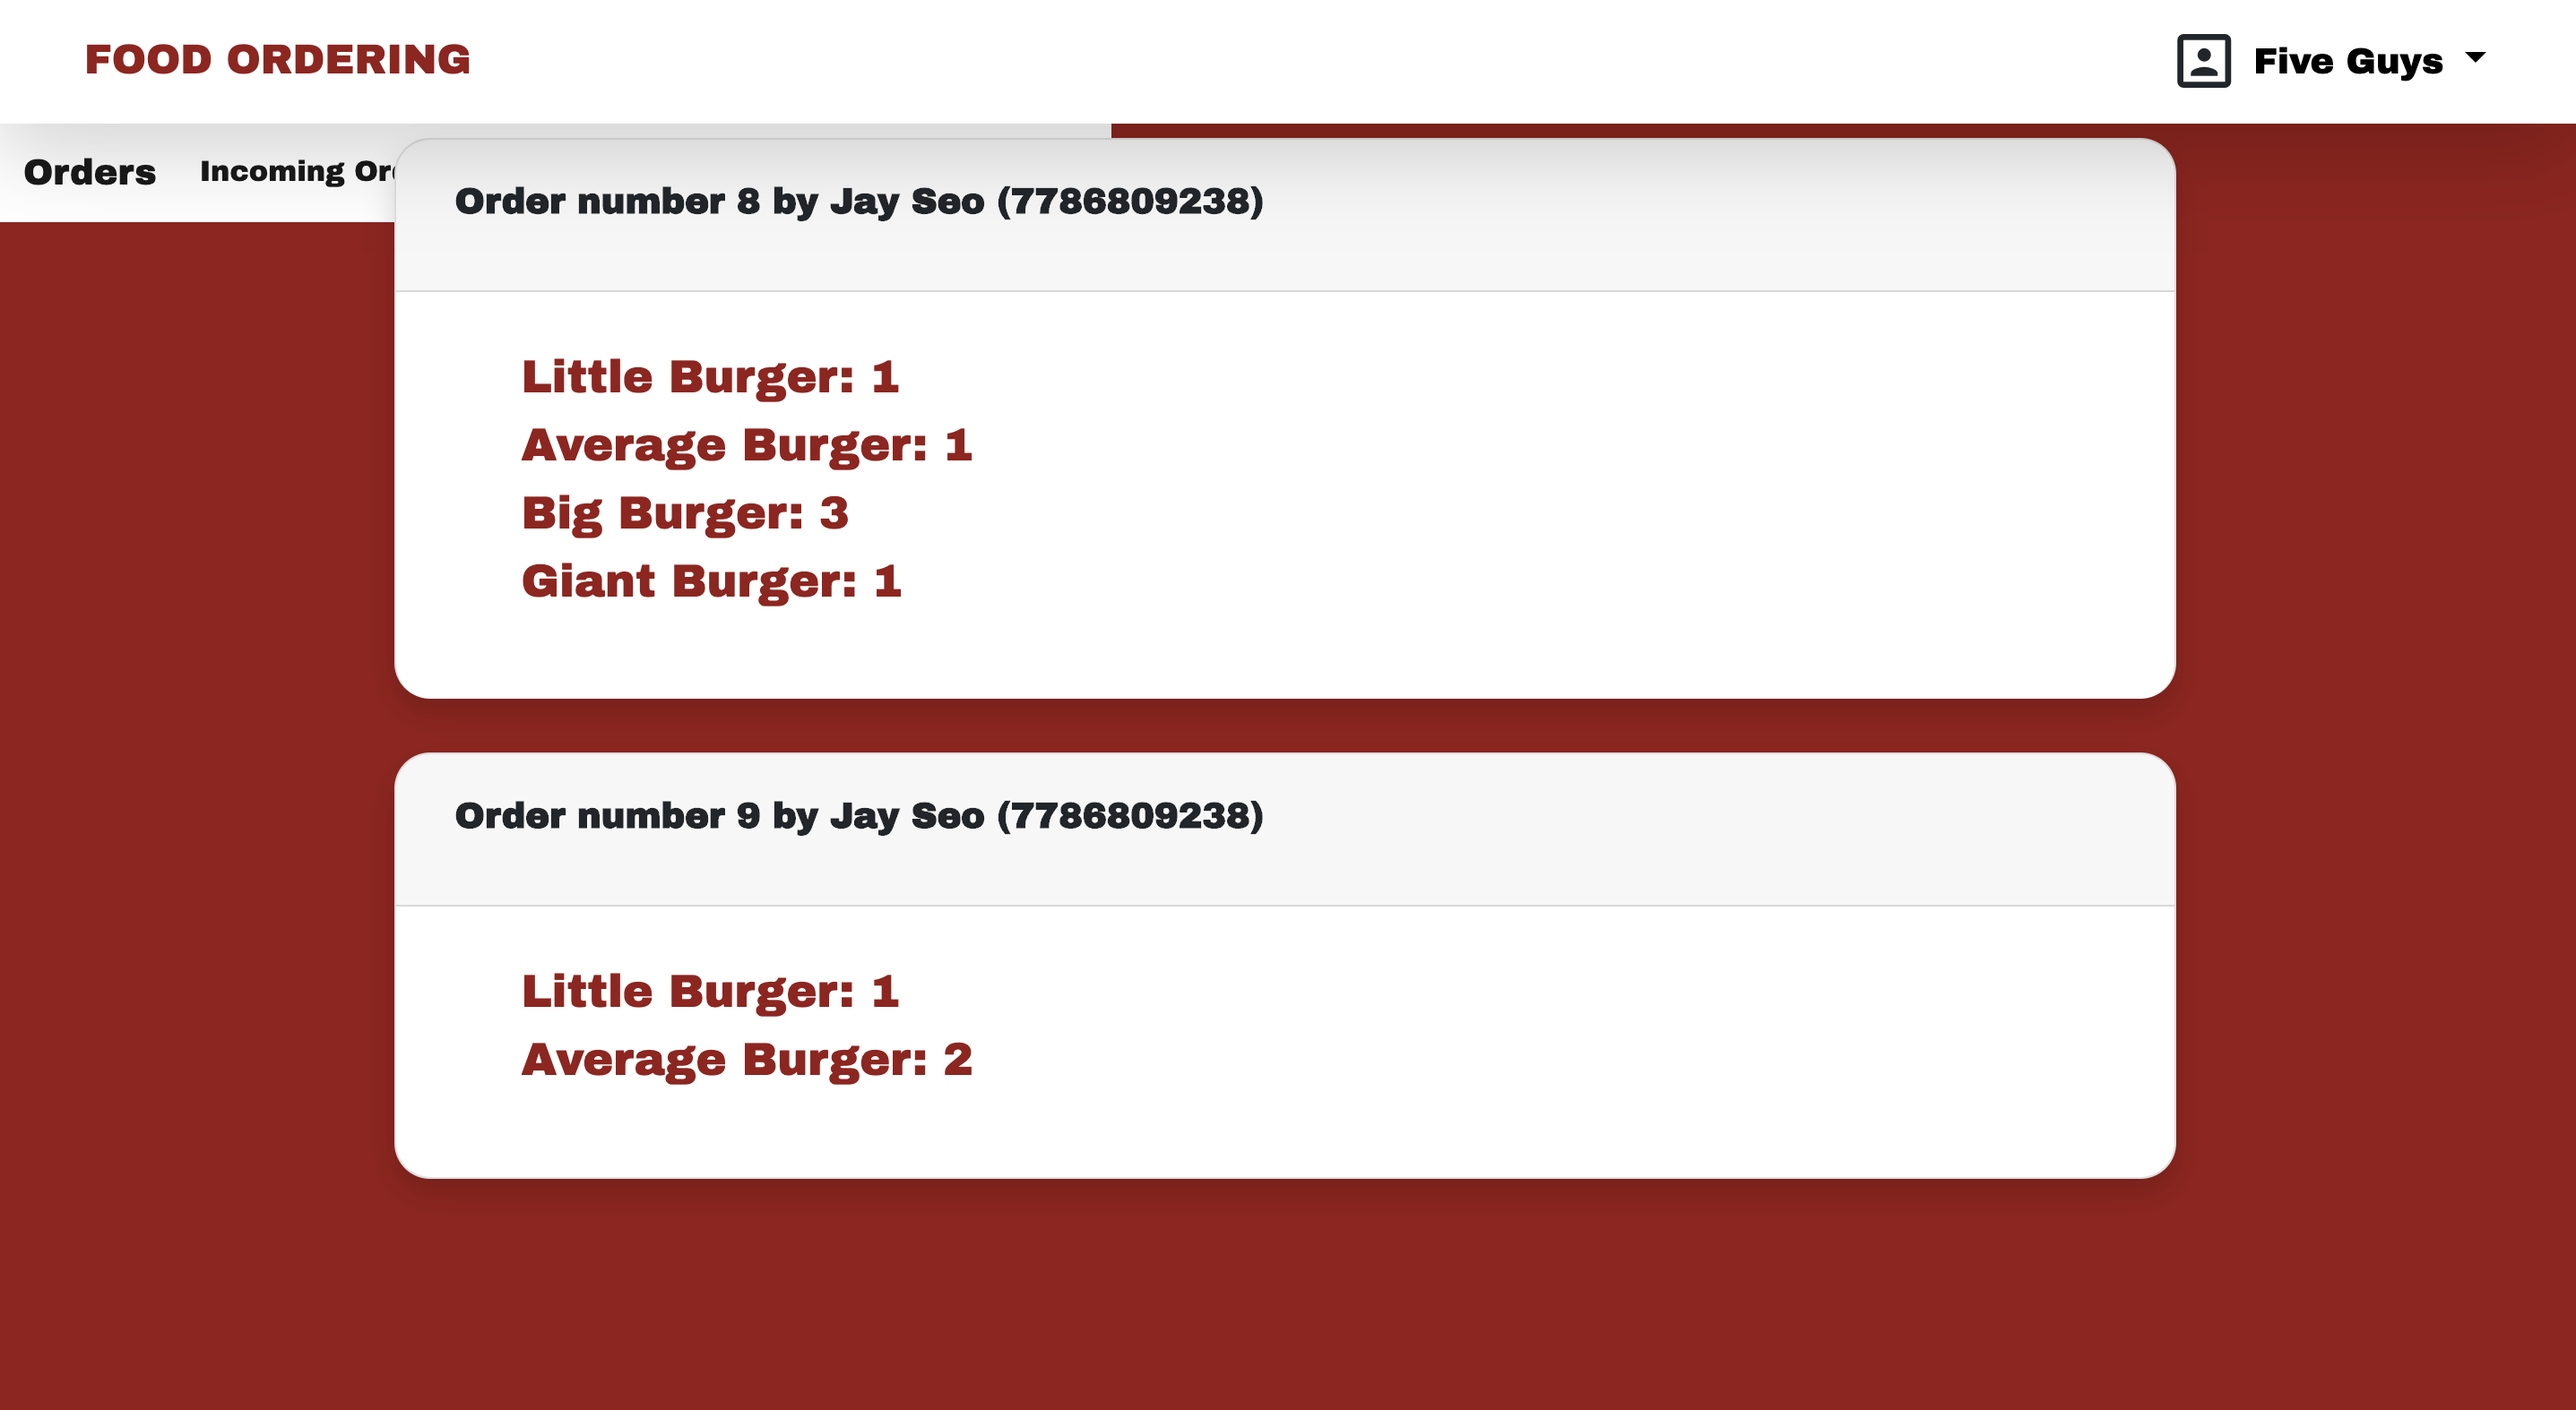
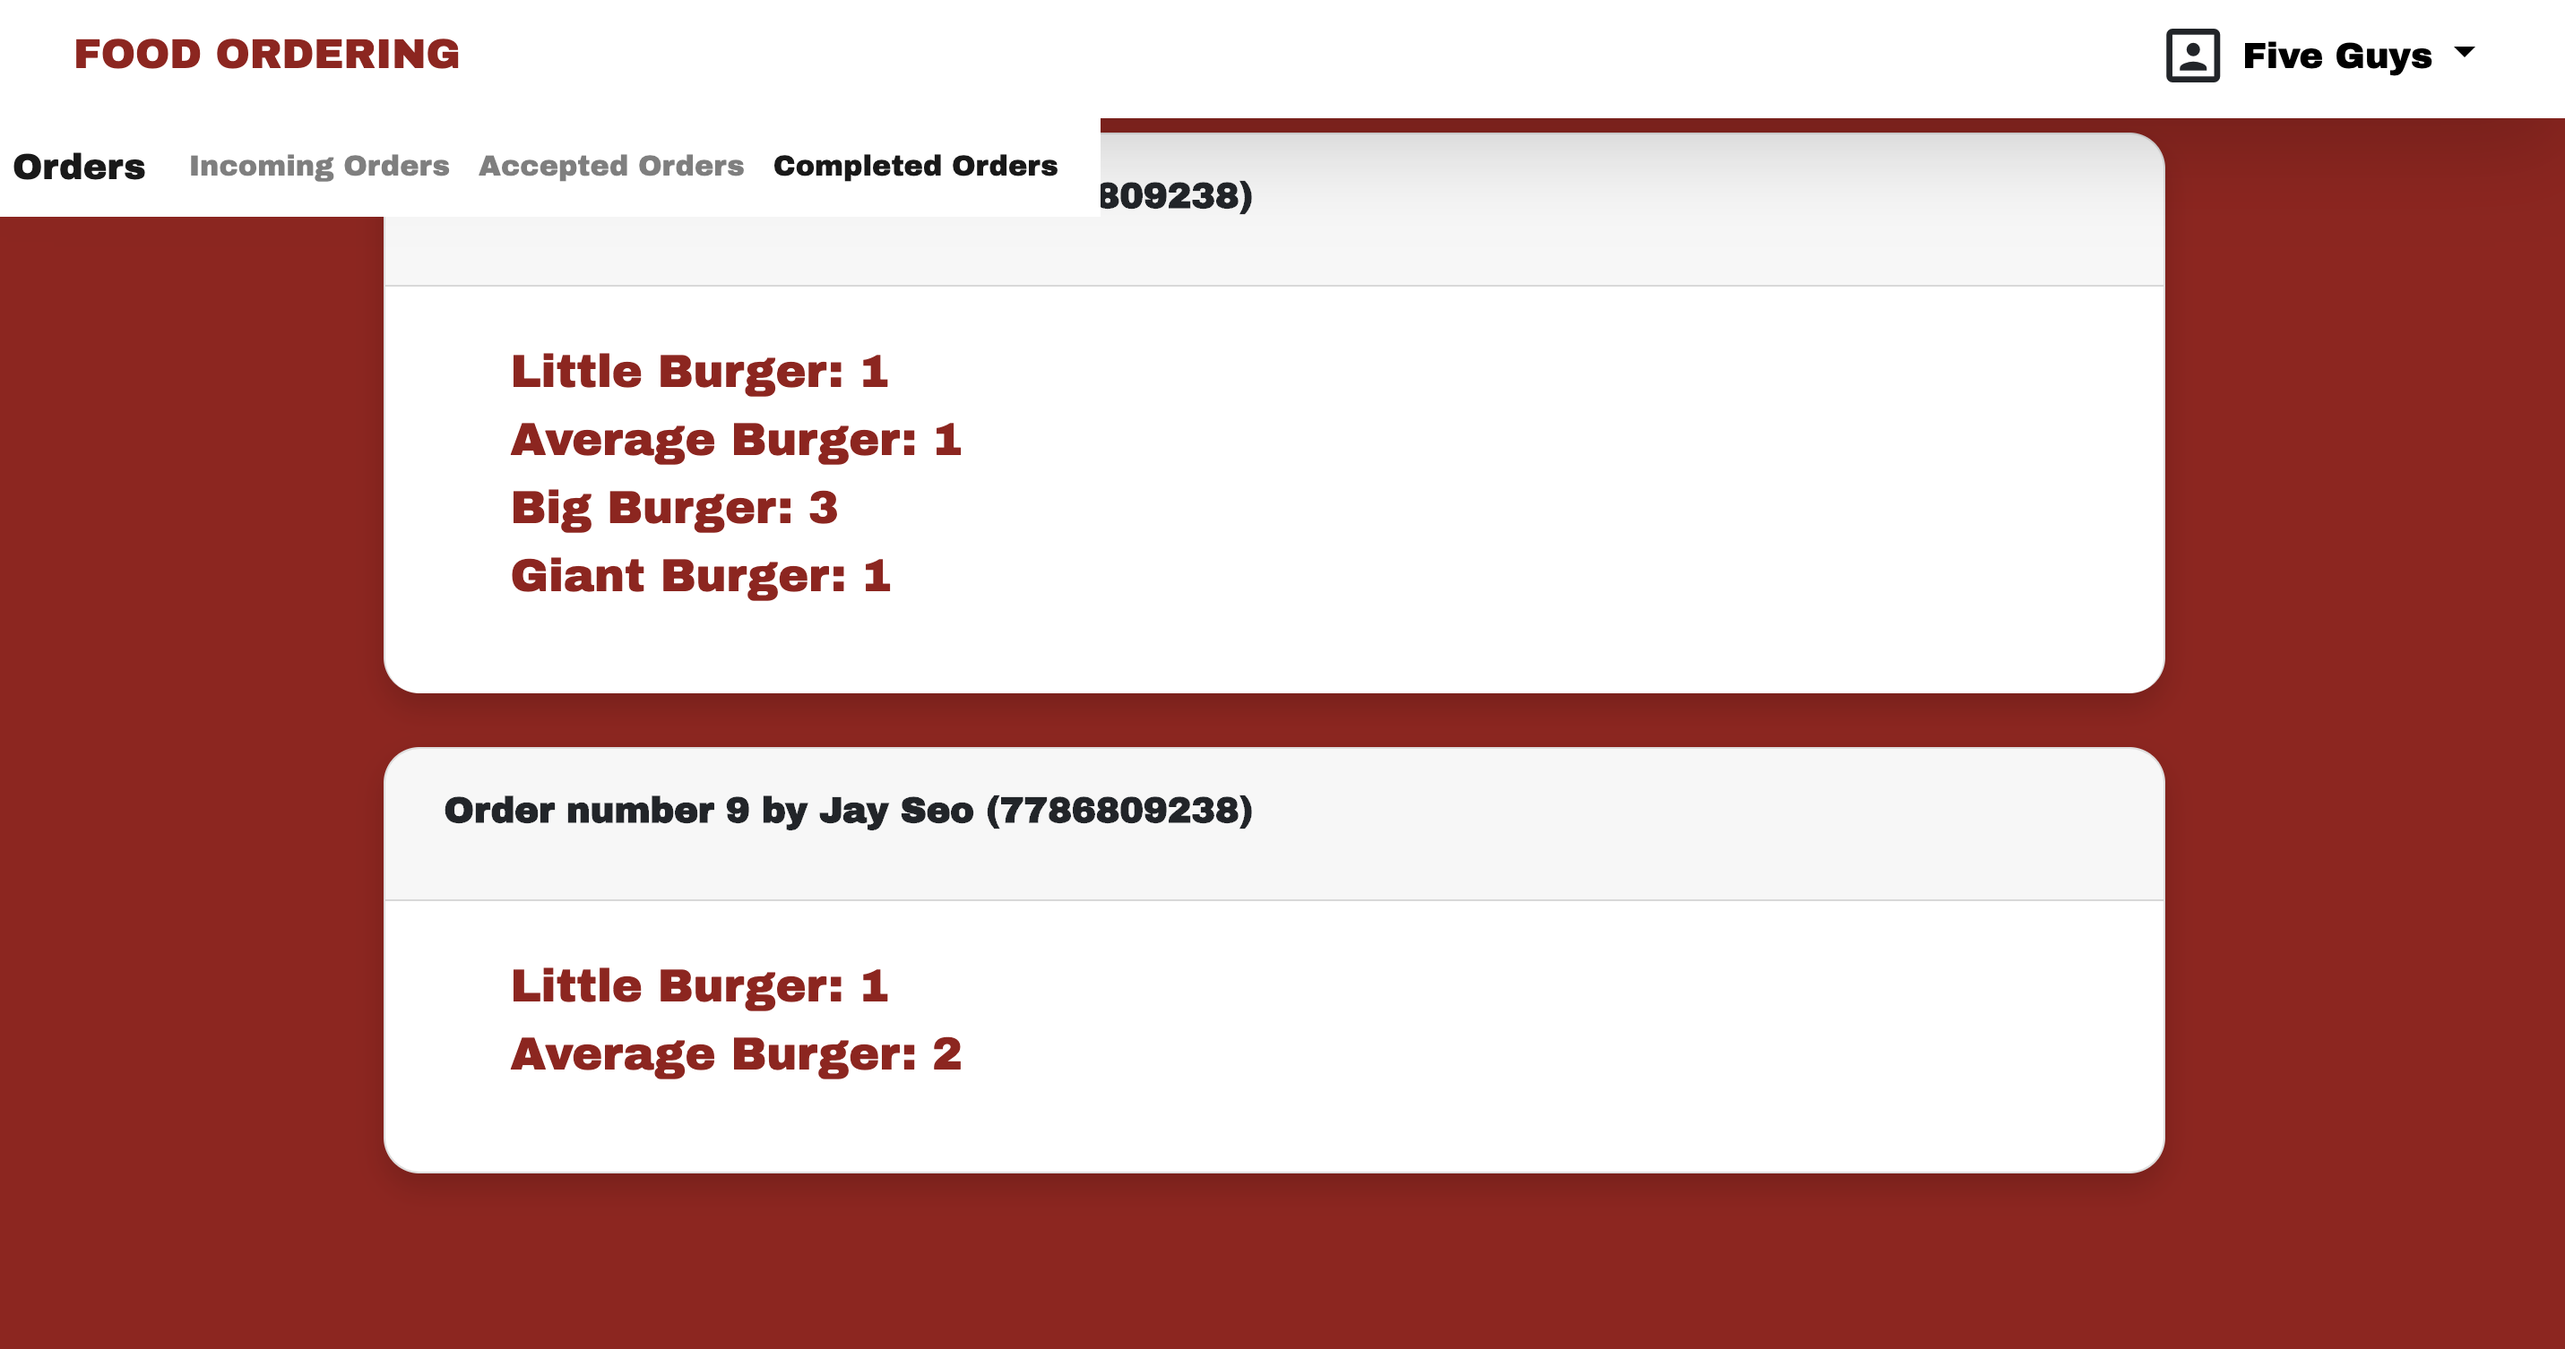
new image for completed order page

Changed region(s): [[0.0, 0.0312, 0.8396, 0.8738], [0.8396, 0.0, 0.964, 0.0624]]

diff --git a/styles/restaurant-portal.scss b/styles/restaurant-portal.scss
@@ -86,7 +86,7 @@ body {
 
   nav.orders-nav {
     position: fixed;
-    // z-index: 2000;
+    z-index: 2000;
     margin-top:1.8vh;
     background-color:white!important;
   }

diff --git a/README.md b/README.md
@@ -34,57 +34,57 @@ npm start
 ## Screenshots of different views
 Home Page
 : App title with links to social network websites and a button to get started!
-!["Root Page"](https://github.com/sjs5953/jungle-rails/blob/master/images/Root%20Page.png?raw=true)
+!["Root Page"](https://github.com/edison-cy-yang/food-ordering-app/blob/master/Img-for-README/Home%20Page.png?raw=true)
 
 Login Page
 : User can sign up, login as either customer or restaurant owner
-!["Login Page"](https://github.com/sjs5953/jungle-rails/blob/master/images/cart%20page.png?raw=true)
+!["Login Page"](https://github.com/edison-cy-yang/food-ordering-app/blob/master/Img-for-README/Login%20Page.png?raw=true)
 
 Menu Page 1
 : The restaurant title is displayed with a button which will smoothly scroll down to show the menu
-!["Menu Page 1"](https://github.com/sjs5953/jungle-rails/blob/master/images/Payment.png?raw=true)
+!["Menu Page 1"](https://github.com/edison-cy-yang/food-ordering-app/blob/master/Img-for-README/Menu%20Page%201.png?raw=true)
 
 Menu Page 2
 : Displays the menu, with the arrow buttons which can be clicked to add to cart
-!["Menu Page 2"](https://github.com/sjs5953/jungle-rails/blob/master/images/Order%20Summary.png?raw=true)
+!["Menu Page 2"](https://github.com/edison-cy-yang/food-ordering-app/blob/master/Img-for-README/Menu%20Page%202.png?raw=true)
 
 Menu Page 3
 : Once the user starts adding items, the button to open the cart shows up from the bottom with shaking animation
-!["Menu Page 3"](https://github.com/sjs5953/jungle-rails/blob/master/images/Admin%20Products.png?raw=true)
+!["Menu Page 3"](https://github.com/edison-cy-yang/food-ordering-app/blob/master/Img-for-README/Start%20Cart.png?raw=true)
 
 Menu Page 4
 : Once click the cart button, a box shows up with the added items, total amount (before tax), and proceed button. The quantity of each item is "dynamic" so if the user changes the amount while the cart is open, it live updates the quantity
-!["Menu Page 4"](https://github.com/sjs5953/jungle-rails/blob/master/images/New%20product.png?raw=true)
+!["Menu Page 4"](https://github.com/edison-cy-yang/food-ordering-app/blob/master/Img-for-README/Open%20Cart.png?raw=true)
 
 Order Review Page
 : This page shows information about the restaurant which is dynamically derived from the database, estamated processing time, the selected items, total amount after tax, and the check out button.
-!["Order Review Page"](https://github.com/sjs5953/jungle-rails/blob/master/images/Admin%20categories.png?raw=true)
+!["Order Review Page"](https://github.com/edison-cy-yang/food-ordering-app/blob/master/Img-for-README/Order%20Review.png?raw=true)
 
 Order Confirmation
 : This page confirms that the order has been placed
-!["Order Confirmation"](https://github.com/sjs5953/jungle-rails/blob/master/images/new%20category.png?raw=true)
+!["Order Confirmation"](https://github.com/edison-cy-yang/food-ordering-app/blob/master/Img-for-README/Thank%20You%20Page.png?raw=true)
 
 Text Message for owner
 : The restaurant owner receives a text message that indicates that there is a new order
-!["Text Message for owner"](https://github.com/sjs5953/jungle-rails/blob/master/images/new%20category.png?raw=true)
+!["Text Message for owner"](https://github.com/edison-cy-yang/food-ordering-app/blob/master/Img-for-README/Text%20for%20Owner.jpeg?raw=true)
 
 Restaurant Side Page
 : The restaurant owner can see incoming order, accepted order, and completed order
-!["Restaurant Side Page](https://github.com/sjs5953/jungle-rails/blob/master/images/new%20category.png?raw=true)
-
-Restaurant Side Page
-: Based on estimated processing time and outstanding orders, the owner can choose an estimated waiting time for the customer
-!["Restaurant Side Page"](https://github.com/sjs5953/jungle-rails/blob/master/images/new%20category.png?raw=true)
+!["Restaurant Side Page](https://github.com/edison-cy-yang/food-ordering-app/blob/master/Img-for-README/Restaurant%20Page.png?raw=true)
 
 Restaurant Side Page 2
+: Based on estimated processing time and outstanding orders, the owner can choose an estimated waiting time for the customer
+!["Restaurant Side Page"](https://github.com/edison-cy-yang/food-ordering-app/blob/master/Img-for-README/Select%20Time.png?raw=true)
+
+Restaurant Side Page 3
 : Once clicking accept button, the order box goes to 'Accepted Orders' section
-!["Restaurant Side Page 2"](https://github.com/sjs5953/jungle-rails/blob/master/images/new%20category.png?raw=true)
+!["Restaurant Side Page 2"](https://github.com/edison-cy-yang/food-ordering-app/blob/master/Img-for-README/Accept%20Order.png?raw=true)
 
 Text Message for the customer
 : The customer receiveS a text message that says the order is acceted with estimated waiting time
-!["Text Message for the customer"](https://github.com/sjs5953/jungle-rails/blob/master/images/new%20category.png?raw=true)
+!["Text Message for the customer"](https://github.com/edison-cy-yang/food-ordering-app/blob/master/Img-for-README/Text%20for%20customer.jpeg?raw=true)
 
-Restaurant Side Page 3
+Restaurant Side Page 4
 : Once the customer picks up their items, the owner clicks complete and the order goes to 'Completed Orders' Section. And the owner waits for the next order
-!["Restaurant Side Page 3"](https://github.com/sjs5953/jungle-rails/blob/master/images/new%20category.png?raw=true)
+!["Restaurant Side Page 3"](https://github.com/edison-cy-yang/food-ordering-app/blob/master/Img-for-README/Completed.png?raw=true)
 
